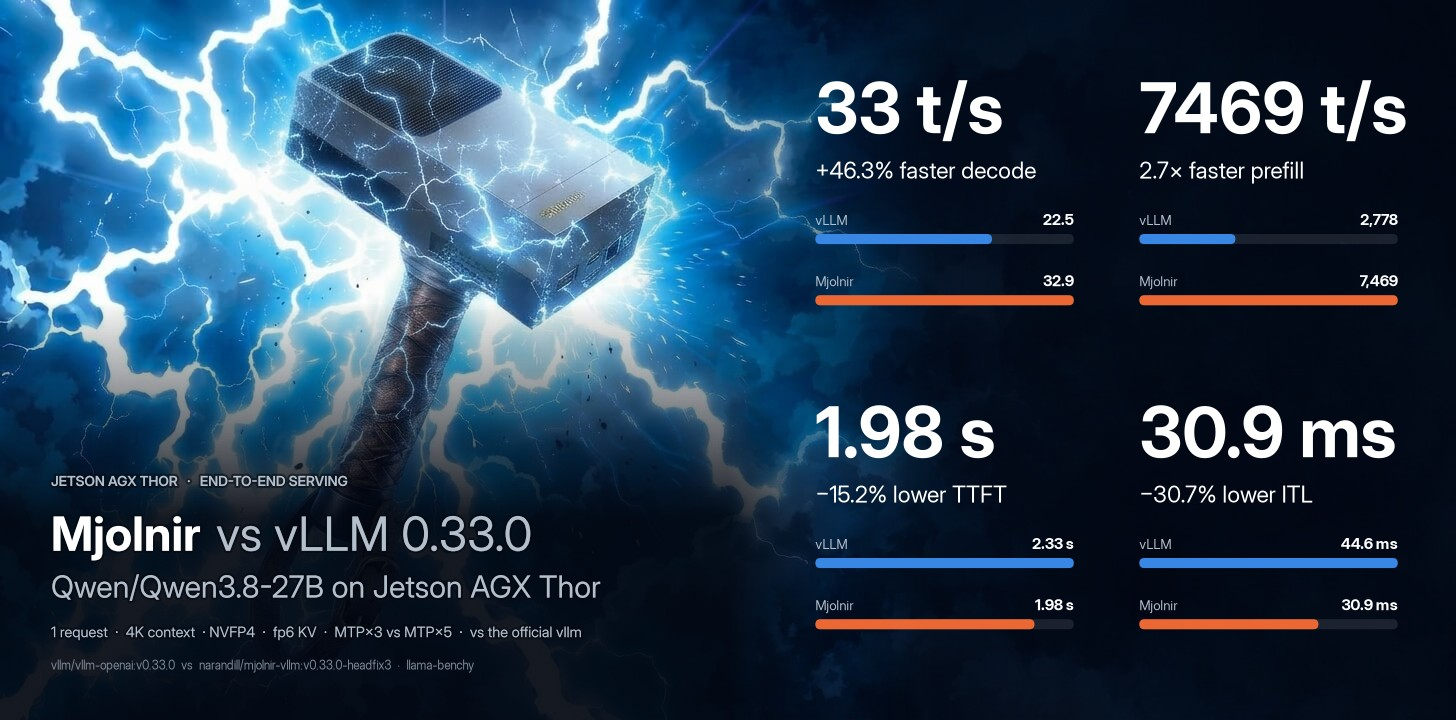
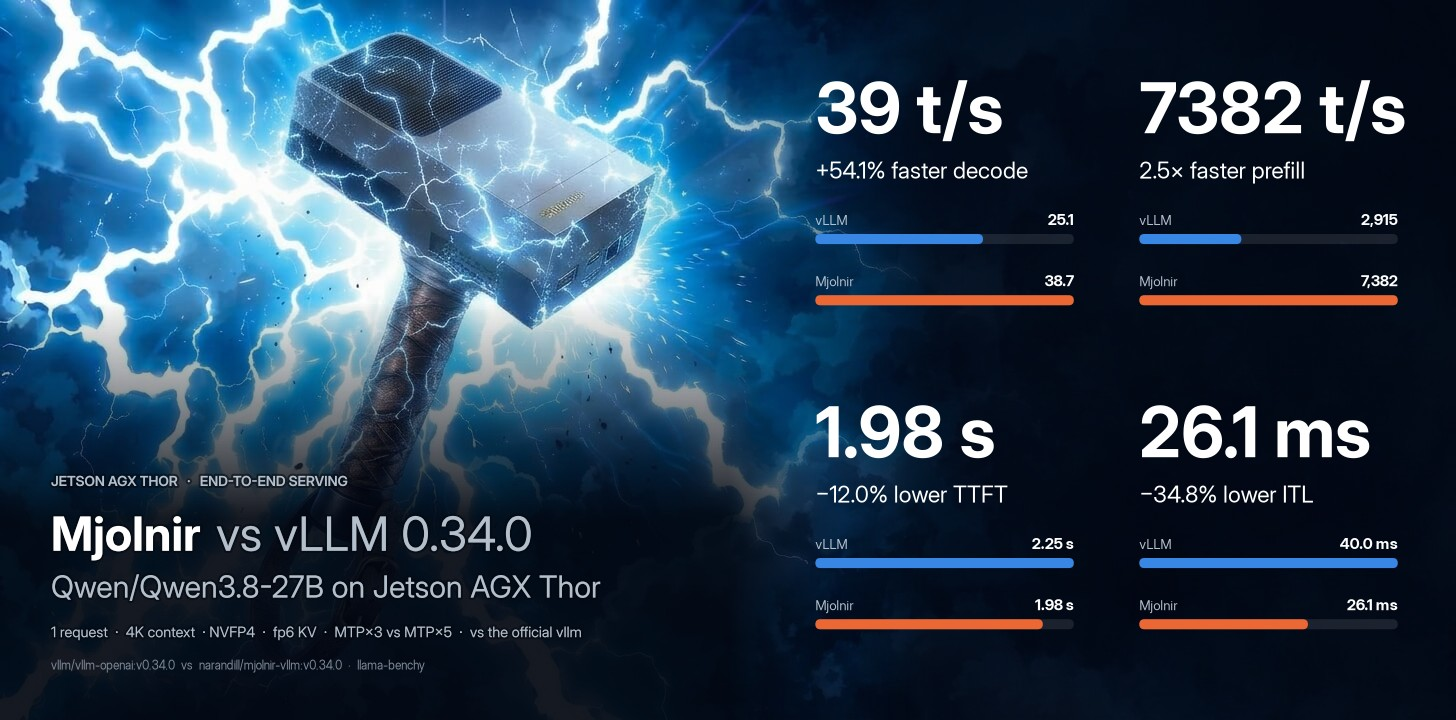
e2e: the 0.34 re-baseline - official vs mjolnir-fp6 (LMH8 VT64K), 15 cells 0..32K: decode 1.09-1.84x, ttft faster everywhere; renders refreshed

diff --git a/docs/platforms/thor/README.md b/docs/platforms/thor/README.md
@@ -33,7 +33,7 @@ speeds. Per-config availability lives on each [model page](../../../configs/).
     <tr><th align="left" width="250">model</th><th align="center" width="250">default config</th><th align="center" width="250">decode</th><th align="center" width="250">prefill</th></tr>
   </thead>
   <tbody>
-    <tr><td align="left"><a href="../../../configs/Qwen/Qwen3.8-27B/README.md"><code>Qwen/Qwen3.8-27B</code></a></td><td align="center"><a href="../../../configs/Qwen/Qwen3.8-27B/NVFP4_MJOLNIR_E2M3_LMH8_VT64K/README.md"><code>NVFP4_MJOLNIR_E2M3_LMH8_VT64K</code></a></td><td align="center"><span title="NVFP4_MJOLNIR_E2M3_LMH8_VT64K">✅ 36.4 t/s</span></td><td align="center"><span title="NVFP4_MJOLNIR_E2M3_LMH8_VT64K">4427.6 t/s</span></td></tr>
+    <tr><td align="left"><a href="../../../configs/Qwen/Qwen3.8-27B/README.md"><code>Qwen/Qwen3.8-27B</code></a></td><td align="center"><a href="../../../configs/Qwen/Qwen3.8-27B/NVFP4_MJOLNIR_E2M3_LMH8_VT64K/README.md"><code>NVFP4_MJOLNIR_E2M3_LMH8_VT64K</code></a></td><td align="center"><span title="NVFP4_MJOLNIR_E2M3_LMH8_VT64K">✅ 40.7 t/s</span></td><td align="center"><span title="NVFP4_MJOLNIR_E2M3_LMH8_VT64K">4325.4 t/s</span></td></tr>
     <tr><td align="left"><a href="../../../configs/nvidia/Qwen3.6-35B-A3B/README.md"><code>nvidia/Qwen3.6-35B-A3B</code></a></td><td align="center"><a href="../../../configs/nvidia/Qwen3.6-35B-A3B/NVFP4_MJOLNIR_E2M3_LMH8_VT64K/README.md"><code>NVFP4_MJOLNIR_E2M3_LMH8_VT64K</code></a></td><td align="center"><span title="NVFP4_MJOLNIR_E2M3">✅ 126.2 t/s</span></td><td align="center"><span title="NVFP4_MJOLNIR_E2M3">7575.5 t/s</span></td></tr>
   </tbody>
 </table>
@@ -120,7 +120,7 @@ own history (`latest_pair`), decode tokens/s per request at 1 request.
 
 | official | Mjolnir | official t/s | Mjolnir t/s | change | at |
 |---|---|--:|--:|--:|---|
-| `NVFP4` | `NVFP4_MJOLNIR_E2M3_LMH8_VT64K` | 22.7 | 34.2 | +50.9% | 32K |
+| `NVFP4` | `NVFP4_MJOLNIR_E2M3_LMH8_VT64K` | 24.4 | 31.8 | +30.3% | 32K |
 
 <img src="../../../assets/benchmarks/thor/Qwen3.8-27B/e2e-decode.png" alt="End-to-end decode throughput: official vLLM vs Mjolnir" width="100%">
 
@@ -131,23 +131,23 @@ Each cell: official → **Mjolnir** and the relative change of the value — **t
 
 | context | requests | decode (t/s, ↑) $\color{grey}\scriptstyle\text{throughput change}$ | prefill (t/s, ↑) $\color{grey}\scriptstyle\text{throughput change}$ | TTFT (ms, ↓) $\color{grey}\scriptstyle\text{latency change}$ | ITL (ms, ↓) $\color{grey}\scriptstyle\text{latency change}$ |
 |--:|--:|--:|--:|--:|--:|
-| no ctx | 1 | 21.7 → **36.4** $\color{#16a34a}{\text{+67.9\\%}}$ | — | 896 → **708** $\color{#16a34a}{\text{−21.0\\%}}$ | 47.7 → **27.6** $\color{#16a34a}{\text{−42.2\\%}}$ |
-| 4K | 1 | 22.5 → **32.9** $\color{#16a34a}{\text{+46.3\\%}}$ | 2,778 → **7,469** $\color{#16a34a}{\text{+168.9\\%}}$ | 2,334 → **1,979** $\color{#16a34a}{\text{−15.2\\%}}$ | 44.6 → **30.9** $\color{#16a34a}{\text{−30.7\\%}}$ |
-| 8K | 1 | 23.4 → **36.4** $\color{#16a34a}{\text{+55.4\\%}}$ | 2,485 → **4,428** $\color{#16a34a}{\text{+78.2\\%}}$ | 4,243 → **3,467** $\color{#16a34a}{\text{−18.3\\%}}$ | 42.9 → **27.7** $\color{#16a34a}{\text{−35.5\\%}}$ |
-| 16K | 1 | 23.7 → **36.2** $\color{#16a34a}{\text{+52.9\\%}}$ | 2,178 → **3,465** $\color{#16a34a}{\text{+59.1\\%}}$ | 8,585 → **6,475** $\color{#16a34a}{\text{−24.6\\%}}$ | 42.6 → **27.9** $\color{#16a34a}{\text{−34.6\\%}}$ |
-| 32K | 1 | 22.7 → **34.2** $\color{#16a34a}{\text{+50.9\\%}}$ | 1,746 → **2,943** $\color{#16a34a}{\text{+68.6\\%}}$ | 20,068 → **12,986** $\color{#16a34a}{\text{−35.3\\%}}$ | 44.3 → **29.3** $\color{#16a34a}{\text{−33.8\\%}}$ |
-| no ctx | 2 | 44.6 → **68.3** $\color{#16a34a}{\text{+53.1\\%}}$ | — | 1,428 → **1,248** $\color{#16a34a}{\text{−12.6\\%}}$ | 43.0 → **27.7** $\color{#16a34a}{\text{−35.7\\%}}$ |
-| 4K | 2 | 44.4 → **67.2** $\color{#16a34a}{\text{+51.4\\%}}$ | 2,727 → **3,017** $\color{#16a34a}{\text{+10.6\\%}}$ | 4,442 → **4,076** $\color{#16a34a}{\text{−8.2\\%}}$ | 43.1 → **28.5** $\color{#16a34a}{\text{−33.7\\%}}$ |
-| 8K | 2 | 44.1 → **59.8** $\color{#16a34a}{\text{+35.8\\%}}$ | 2,453 → **2,967** $\color{#16a34a}{\text{+21.0\\%}}$ | 8,286 → **6,784** $\color{#16a34a}{\text{−18.1\\%}}$ | 43.7 → **30.6** $\color{#16a34a}{\text{−30.1\\%}}$ |
-| 16K | 2 | 40.9 → **58.8** $\color{#16a34a}{\text{+43.8\\%}}$ | 2,166 → **2,829** $\color{#16a34a}{\text{+30.6\\%}}$ | 16,951 → **12,949** $\color{#16a34a}{\text{−23.6\\%}}$ | 46.1 → **30.8** $\color{#16a34a}{\text{−33.1\\%}}$ |
-| 32K | 2 | 39.2 → **45.3** $\color{#16a34a}{\text{+15.6\\%}}$ | 1,738 → **2,655** $\color{#16a34a}{\text{+52.8\\%}}$ | 39,691 → **25,600** $\color{#16a34a}{\text{−35.5\\%}}$ | 46.9 → **36.8** $\color{#16a34a}{\text{−21.6\\%}}$ |
-| no ctx | 4 | 80.1 → **110.3** $\color{#16a34a}{\text{+37.7\\%}}$ | — | 2,757 → **2,514** $\color{#16a34a}{\text{−8.8\\%}}$ | 44.7 → **30.9** $\color{#16a34a}{\text{−31.0\\%}}$ |
-| 4K | 4 | 78.0 → **98.9** $\color{#16a34a}{\text{+26.7\\%}}$ | 2,681 → **2,958** $\color{#16a34a}{\text{+10.3\\%}}$ | 9,009 → **8,144** $\color{#16a34a}{\text{−9.6\\%}}$ | 46.0 → **33.4** $\color{#16a34a}{\text{−27.4\\%}}$ |
-| 8K | 4 | 74.8 → **71.7** $\color{#dc2626}{\text{−4.1\\%}}$ | 2,434 → **2,893** $\color{#16a34a}{\text{+18.8\\%}}$ | 16,676 → **13,444** $\color{#16a34a}{\text{−19.4\\%}}$ | 47.4 → **39.8** $\color{#16a34a}{\text{−15.9\\%}}$ |
-| 16K | 4 | 41.6 → **45.3** $\color{#16a34a}{\text{+8.8\\%}}$ | 2,133 → **2,755** $\color{#16a34a}{\text{+29.1\\%}}$ | 33,024 → **24,775** $\color{#16a34a}{\text{−25.0\\%}}$ | 59.6 → **51.2** $\color{#16a34a}{\text{−14.1\\%}}$ |
-| 32K | 4 | 11.1 → **16.0** $\color{#16a34a}{\text{+44.7\\%}}$ | 1,679 → **2,726** $\color{#16a34a}{\text{+62.4\\%}}$ | 67,684 → **41,074** $\color{#16a34a}{\text{−39.3\\%}}$ | 171.4 → **120.5** $\color{#16a34a}{\text{−29.7\\%}}$ |
+| no ctx | 1 | 22.1 → **40.7** $\color{#16a34a}{\text{+84.1\\%}}$ | — | 836 → **669** $\color{#16a34a}{\text{−20.0\\%}}$ | 47.4 → **24.9** $\color{#16a34a}{\text{−47.5\\%}}$ |
+| 4K | 1 | 25.1 → **38.7** $\color{#16a34a}{\text{+54.1\\%}}$ | 2,915 → **7,382** $\color{#16a34a}{\text{+153.2\\%}}$ | 2,253 → **1,983** $\color{#16a34a}{\text{−12.0\\%}}$ | 40.0 → **26.1** $\color{#16a34a}{\text{−34.8\\%}}$ |
+| 8K | 1 | 24.6 → **36.2** $\color{#16a34a}{\text{+47.0\\%}}$ | 2,609 → **4,325** $\color{#16a34a}{\text{+65.8\\%}}$ | 4,070 → **3,515** $\color{#16a34a}{\text{−13.7\\%}}$ | 41.1 → **28.0** $\color{#16a34a}{\text{−31.8\\%}}$ |
+| 16K | 1 | 23.6 → **34.1** $\color{#16a34a}{\text{+44.6\\%}}$ | 2,264 → **3,635** $\color{#16a34a}{\text{+60.5\\%}}$ | 8,287 → **6,219** $\color{#16a34a}{\text{−25.0\\%}}$ | 42.5 → **29.8** $\color{#16a34a}{\text{−30.0\\%}}$ |
+| 32K | 1 | 24.4 → **31.8** $\color{#16a34a}{\text{+30.3\\%}}$ | 1,801 → **3,118** $\color{#16a34a}{\text{+73.1\\%}}$ | 19,473 → **12,312** $\color{#16a34a}{\text{−36.8\\%}}$ | 41.4 → **31.5** $\color{#16a34a}{\text{−23.8\\%}}$ |
+| no ctx | 2 | 47.2 → **67.1** $\color{#16a34a}{\text{+42.2\\%}}$ | — | 1,333 → **1,230** $\color{#16a34a}{\text{−7.7\\%}}$ | 40.1 → **28.5** $\color{#16a34a}{\text{−29.0\\%}}$ |
+| 4K | 2 | 47.0 → **64.1** $\color{#16a34a}{\text{+36.4\\%}}$ | 2,821 → **3,172** $\color{#16a34a}{\text{+12.5\\%}}$ | 4,296 → **3,829** $\color{#16a34a}{\text{−10.9\\%}}$ | 40.9 → **28.8** $\color{#16a34a}{\text{−29.7\\%}}$ |
+| 8K | 2 | 47.8 → **65.1** $\color{#16a34a}{\text{+36.2\\%}}$ | 2,559 → **2,979** $\color{#16a34a}{\text{+16.4\\%}}$ | 7,942 → **6,749** $\color{#16a34a}{\text{−15.0\\%}}$ | 40.9 → **28.8** $\color{#16a34a}{\text{−29.5\\%}}$ |
+| 16K | 2 | 45.1 → **58.8** $\color{#16a34a}{\text{+30.2\\%}}$ | 2,240 → **2,965** $\color{#16a34a}{\text{+32.4\\%}}$ | 16,399 → **12,380** $\color{#16a34a}{\text{−24.5\\%}}$ | 42.7 → **31.1** $\color{#16a34a}{\text{−27.2\\%}}$ |
+| 32K | 2 | 38.3 → **47.5** $\color{#16a34a}{\text{+24.1\\%}}$ | 1,787 → **2,817** $\color{#16a34a}{\text{+57.7\\%}}$ | 38,602 → **24,062** $\color{#16a34a}{\text{−37.7\\%}}$ | 47.0 → **35.5** $\color{#16a34a}{\text{−24.4\\%}}$ |
+| no ctx | 4 | 89.8 → **107.6** $\color{#16a34a}{\text{+19.9\\%}}$ | — | 2,591 → **2,379** $\color{#16a34a}{\text{−8.2\\%}}$ | 41.5 → **30.6** $\color{#16a34a}{\text{−26.4\\%}}$ |
+| 4K | 4 | 78.9 → **105.1** $\color{#16a34a}{\text{+33.2\\%}}$ | 2,772 → **3,098** $\color{#16a34a}{\text{+11.7\\%}}$ | 8,716 → **7,777** $\color{#16a34a}{\text{−10.8\\%}}$ | 45.2 → **31.8** $\color{#16a34a}{\text{−29.7\\%}}$ |
+| 8K | 4 | 80.5 → **66.3** $\color{#dc2626}{\text{−17.7\\%}}$ | 2,533 → **2,982** $\color{#16a34a}{\text{+17.7\\%}}$ | 16,028 → **12,895** $\color{#16a34a}{\text{−19.5\\%}}$ | 45.1 → **39.1** $\color{#16a34a}{\text{−13.4\\%}}$ |
+| 16K | 4 | 42.9 → **46.8** $\color{#16a34a}{\text{+9.1\\%}}$ | 2,217 → **2,894** $\color{#16a34a}{\text{+30.5\\%}}$ | 31,760 → **23,418** $\color{#16a34a}{\text{−26.3\\%}}$ | 57.2 → **49.4** $\color{#16a34a}{\text{−13.7\\%}}$ |
+| 32K | 4 | 11.7 → **16.7** $\color{#16a34a}{\text{+42.3\\%}}$ | 1,767 → **2,755** $\color{#16a34a}{\text{+55.9\\%}}$ | 64,923 → **40,102** $\color{#16a34a}{\text{−38.2\\%}}$ | 156.8 → **116.8** $\color{#16a34a}{\text{−25.5\\%}}$ |
 
-> <sub>official: `vllm/vllm-openai:v0.33.0 · NVFP4 (vLLM 0.33.0 (official image))` · Mjolnir: `narandill/mjolnir-vllm:v0.33.0-headfix3 · NVFP4_MJOLNIR_E2M3_LMH8_VT64K (Mjolnir fp6 KV + fp8 lm_head + 64K draft vocab)` · TTFT = time to first token; ITL = inter-token latency (1000 / per-request decode rate) · from [`benchmarks/history.jsonl`](../../../benchmarks/history.jsonl).</sub>
+> <sub>official: `vllm/vllm-openai:v0.34.0 · NVFP4 (vLLM 0.34.0 (official image))` · Mjolnir: `narandill/mjolnir-vllm:v0.34.0 · NVFP4_MJOLNIR_E2M3_LMH8_VT64K (Mjolnir fp6 KV + fp8 lm_head + 64K draft vocab)` · TTFT = time to first token; ITL = inter-token latency (1000 / per-request decode rate) · from [`benchmarks/history.jsonl`](../../../benchmarks/history.jsonl).</sub>
 
 <details>
 <summary>How the % and × here are calculated</summary>

diff --git a/README.md b/README.md
@@ -58,7 +58,7 @@ Why any of this helps: **every generated token re-reads the whole KV cache** —
 
 - **Throughput** (decode, prefill — tokens/s, higher is better): change = (Mjolnir − official) ÷ official × 100. `+57%` = 1.57× the tokens per second. On the infographic a change of +100% or more is written as the multiple Mjolnir ÷ official (`+200%` = `3×`).
 - **Latency** (TTFT, ITL — milliseconds, lower is better): change = (Mjolnir − official) ÷ official × 100, so a negative value is a **latency reduction**: `−27%` = 27% fewer milliseconds. It is *not* the reciprocal speedup official ÷ Mjolnir − 1, which reads larger for the same pair.
-- **Worked example** (Jetson AGX Thor, 8K context, 1 request): TTFT 4,243 → 3,467 ms: (3,467 − 4,243) ÷ 4,243 × 100 = **−18.3%** (a latency reduction of 18.3%). The reciprocal speedup would be 4,243 ÷ 3,467 = 1.22× (+22.4%) — the same measurement, a different convention.
+- **Worked example** (Jetson AGX Thor, 4K context, 1 request): TTFT 2,253 → 1,983 ms: (1,983 − 2,253) ÷ 2,253 × 100 = **−12.0%** (a latency reduction of 12.0%). The reciprocal speedup would be 2,253 ÷ 1,983 = 1.14× (+13.6%) — the same measurement, a different convention.
 - **Values**: the mean over the measured runs per cell (6 measured after 2 warm-ups, llama-benchy): decode = generated tokens ÷ generation time per request (summed over requests at higher concurrency), prefill = prompt tokens ÷ prompt-processing time, TTFT = time to the first content token, ITL = 1000 ÷ the per-request decode rate.
 - **Colors**: green = better by at least 3%, grey = within ±3% (`E2E_NOISE_PCT`), red = worse by at least that. With speculative decoding a single decode cell moves more between runs (acceptance depends on the prompt), so repeat (`--repeat`) before reading a few-% difference.
 
@@ -69,13 +69,13 @@ Why any of this helps: **every generated token re-reads the whole KV cache** —
     <td width="33%" valign="top" align="center">
       <br>
       <h3>🚀&nbsp;<a href="docs/platforms/thor/README.md#end-to-end">Faster decode</a></h3>
-      <p><b>+55% tokens/s</b> vs the official vLLM image. MTP with <b>5 draft tokens</b>: an fp8 lm_head and a 64K draft vocabulary.</p>
+      <p><b>+54% tokens/s</b> vs the official vLLM image. MTP with <b>5 draft tokens</b>: an fp8 lm_head and a 64K draft vocabulary.</p>
       <br>
     </td>
     <td width="33%" valign="top" align="center">
       <br>
       <h3>⏱&nbsp;<a href="docs/platforms/thor/README.md#end-to-end">Faster prompts</a></h3>
-      <p><b>+78%</b> prefill throughput, <b>−18%</b> time to first token.</p>
+      <p><b>+153%</b> prefill throughput, <b>−12%</b> time to first token.</p>
       <br>
     </td>
     <td width="33%" valign="top" align="center">
@@ -180,7 +180,7 @@ kernel results exist for its headline model — its own kernel case study.
     <tr><th align="left" width="25%">model</th><th align="center" width="25%"><center><a href="docs/platforms/thor/README.md"><img src="assets/emoji/mjolnir_thor_emoji.png" alt="" width="20" align="absmiddle"> <strong>Jetson AGX Thor</strong></a></center></th><th align="center" width="25%"><center><a href="docs/platforms/spark/README.md"><img src="assets/emoji/mjolni_spark_emoji.png" alt="" width="20" align="absmiddle"> <strong>DGX Spark</strong></a></center></th><th align="center" width="25%"><center><a href="docs/platforms/orin/README.md"><img src="assets/emoji/mjolnir_orin_emoji.png" alt="" width="20" align="absmiddle"> <strong>Jetson Orin</strong></a></center></th></tr>
   </thead>
   <tbody>
-    <tr><td align="left"><a href="configs/Qwen/Qwen3.8-27B/README.md">Qwen3.8-27B</a></td><td align="center"><span title="NVFP4_MJOLNIR_E2M3_LMH8_VT64K">✅ 36.4 t/s</span></td><td align="center">✅</td><td align="center"><span title="AWQ_MJOLNIR_VT64K">✅ 24.3 t/s</span></td></tr>
+    <tr><td align="left"><a href="configs/Qwen/Qwen3.8-27B/README.md">Qwen3.8-27B</a></td><td align="center"><span title="NVFP4_MJOLNIR_E2M3_LMH8_VT64K">✅ 40.7 t/s</span></td><td align="center">✅</td><td align="center"><span title="AWQ_MJOLNIR_VT64K">✅ 24.3 t/s</span></td></tr>
     <tr><td align="left"><a href="configs/nvidia/Qwen3.6-35B-A3B/README.md">Qwen3.6-35B-A3B</a></td><td align="center"><span title="NVFP4_MJOLNIR_E2M3">✅ 126.2 t/s</span></td><td align="center">—</td><td align="center">—</td></tr>
   </tbody>
 </table>

diff --git a/configs/Qwen/Qwen3.8-27B/NVFP4/README.md b/configs/Qwen/Qwen3.8-27B/NVFP4/README.md
@@ -46,10 +46,10 @@ Explore the numbers in [the interactive charts](https://GoBrrr-ai.github.io/mjol
 
 | metric | official `NVFP4` | Mjolnir `NVFP4_MJOLNIR_E2M3_LMH8_VT64K` | change |
 |---|--:|--:|--:|
-| decode (t/s) | 22.7 | 34.2 | +50.9% |
-| prefill (t/s) | 1,746 | 2,943 | +68.6% |
-| TTFT (ms) | 20,068 | 12,986 | −35.3% |
-| ITL (ms) | 44.3 | 29.3 | −33.8% |
+| decode (t/s) | 24.4 | 31.8 | +30.3% |
+| prefill (t/s) | 1,801 | 3,118 | +73.1% |
+| TTFT (ms) | 19,473 | 12,312 | −36.8% |
+| ITL (ms) | 41.4 | 31.5 | −23.8% |
 
 <img src="../../../../assets/benchmarks/thor/Qwen3.8-27B/e2e-decode.png" alt="End-to-end decode throughput" width="100%">
 

diff --git a/configs/Qwen/Qwen3.8-27B/NVFP4_MJOLNIR_E2M3_LMH8_VT64K/README.md b/configs/Qwen/Qwen3.8-27B/NVFP4_MJOLNIR_E2M3_LMH8_VT64K/README.md
@@ -34,10 +34,10 @@ Explore the numbers in [the interactive charts](https://GoBrrr-ai.github.io/mjol
 
 | metric | official `NVFP4` | Mjolnir `NVFP4_MJOLNIR_E2M3_LMH8_VT64K` | change |
 |---|--:|--:|--:|
-| decode (t/s) | 22.7 | 34.2 | +50.9% |
-| prefill (t/s) | 1,746 | 2,943 | +68.6% |
-| TTFT (ms) | 20,068 | 12,986 | −35.3% |
-| ITL (ms) | 44.3 | 29.3 | −33.8% |
+| decode (t/s) | 24.4 | 31.8 | +30.3% |
+| prefill (t/s) | 1,801 | 3,118 | +73.1% |
+| TTFT (ms) | 19,473 | 12,312 | −36.8% |
+| ITL (ms) | 41.4 | 31.5 | −23.8% |
 
 <img src="../../../../assets/benchmarks/thor/Qwen3.8-27B/e2e-decode.png" alt="End-to-end decode throughput" width="100%">
 

diff --git a/configs/Qwen/Qwen3.8-27B/README.md b/configs/Qwen/Qwen3.8-27B/README.md
@@ -72,7 +72,7 @@ longest shared context.
 
 | platform | official | Mjolnir | official t/s | Mjolnir t/s | change | at |
 |---|---|---|--:|--:|--:|---|
-| Jetson AGX Thor | `NVFP4` | `NVFP4_MJOLNIR_E2M3_LMH8_VT64K` | 22.7 | 34.2 | +50.9% | 32K |
+| Jetson AGX Thor | `NVFP4` | `NVFP4_MJOLNIR_E2M3_LMH8_VT64K` | 24.4 | 31.8 | +30.3% | 32K |
 | Jetson Orin | `AWQ_FLASHINFER` | `AWQ_MJOLNIR_VT64K` | 17.9 | 21.9 | +22.4% | 32K |
 
 
